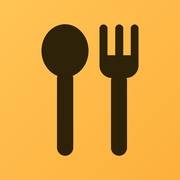
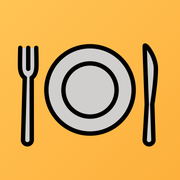
음식·앱 아이콘을 OpenMoji로 교체하고 출처(CC BY-SA 4.0)를 표기

diff --git a/icons.js b/icons.js
@@ -1,70 +1,11 @@
-// 결과 카드에 쓰는 음식 픽토그램 (viewBox 0 0 96 96)
-// 공통 스타일: 굵은 진한 외곽선 + 평평한 채색 + 한쪽 면 음영
-const INK = "#2b1d14";
-const g = (inner) => `<g stroke="${INK}" stroke-width="3.5" stroke-linejoin="round" stroke-linecap="round">${inner}</g>`;
-// 외곽선이 있는 굵은 선(면발, 뼈, 손잡이): 검정 선 위에 색 선을 덧그림
-const pipe = (d, w, color) =>
-  `<path d="${d}" fill="none" stroke-width="${w}"/><path d="${d}" fill="none" stroke="${color}" stroke-width="${w - 3.6}"/>`;
-const STEAM = `<g fill="none"><path d="M32 22c-4-4 4-7 0-12"/><path d="M48 20c-4-4 4-7 0-12"/><path d="M64 22c-4-4 4-7 0-12"/></g>`;
-const dots = (list) => `<g fill="${INK}" stroke="none">${list.map(([x, y]) => `<circle cx="${x}" cy="${y}" r="1.4"/>`).join("")}</g>`;
-const RICE_BUMPS = [[10, 46], [20.8, 54], [31.6, 62], [42.4, 70], [53.2, 78], [64, 86]]
-  .map(([x, y]) => `<circle cx="${x}" cy="${y}" r="5" fill="#faf5f0"/>`).join("");
-
-const ICONS = {
-  // 한식·기본: 김이 나는 밥
-  rice: g(`${STEAM}<path d="M14 52c0-12 8-20 18-20 3-7 13-9 19-4 4-4 13-3 16 5 9 2 15 10 15 19z" fill="#fff"/><path d="M8 52h80c0 20-16 34-40 34S8 72 8 52z" fill="#cfe3ff"/><path d="M71 55h14c-3 16-17 28-37 28 14-6 23-16 23-28z" fill="#a9c8f5" stroke="none"/><path d="M36 86h24v6H36z" fill="#a9c8f5"/>`),
-
-  // 면 요리: 젓가락으로 든 면발
-  noodle: g(`<path d="M20 34 82 10l3 7-62 24z" fill="#f28c38"/><path d="M16 44 82 24l3 7-66 22z" fill="#f28c38"/>${pipe("M34 40c-4 6 4 10 0 16s4 8 0 12", 7, "#fff")}${pipe("M46 38c-4 6 4 10 0 16s4 8 0 14", 7, "#fff")}${pipe("M58 36c-4 6 4 10 0 16s4 8 0 16", 7, "#fff")}${pipe("M70 34c-4 6 4 10 0 16s4 8 0 18", 7, "#fff")}<path d="M8 62h80c0 16-14 26-40 26S8 78 8 62z" fill="#86a8f0"/><path d="M72 65h13c-3 14-15 23-37 23 14-5 24-12 24-23z" fill="#6e91dd" stroke="none"/><path d="M36 88h24v5H36z" fill="#6e91dd"/>`),
-
-  // 라멘·일식
-  ramen: g(`<path d="M22 6h56v9H22z" fill="#e85d4c"/>${pipe("M38 15c-4 6 4 10 0 16s4 10 0 18", 7, "#ffb13b")}${pipe("M48 15c-4 6 4 10 0 16s4 10 0 18", 7, "#ffb13b")}${pipe("M58 15c-4 6 4 10 0 16s4 10 0 18", 7, "#ffb13b")}${pipe("M68 15c-4 6 4 10 0 16s4 10 0 18", 7, "#ffb13b")}<ellipse cx="22" cy="47" rx="14" ry="10" fill="#fff"/><circle cx="20" cy="49" r="5" fill="#ffa52b" stroke="none"/><path d="M66 52 76 34l16 8-4 10z" fill="#3f4c6b"/><path d="M6 52h84c0 20-16 34-42 34S6 72 6 52z" fill="#e85d4c"/><path d="M73 55h14c-3 17-16 28-39 28 15-6 25-16 25-28z" fill="#d24a3b" stroke="none"/><path d="M36 86h24v6H36z" fill="#e85d4c"/>`),
-
-  // 국·찌개·탕: 뚝배기
-  soup: g(`${STEAM}<path d="M2 52h8v8H2zM86 52h8v8h-8z" fill="#8a4a1a"/><path d="M10 46h76v22c0 12-10 20-22 20H32c-12 0-22-8-22-20z" fill="#a0592b"/><path d="M70 56h14v12c0 12-10 20-22 20 8-6 8-20 8-32z" fill="#8a4a1a" stroke="none"/><ellipse cx="48" cy="46" rx="38" ry="8" fill="#e85d4c"/><rect x="30" y="39" width="11" height="9" rx="2" fill="#fff"/><rect x="52" y="40" width="11" height="9" rx="2" fill="#fff"/>`),
-
-  // 초밥·스시: 연어 니기리
-  sushi: g(`${RICE_BUMPS}<path d="M10 30 70 86H64L10 46z" fill="#faf5f0" stroke="none"/><path d="M6 20C10 10 24 4 38 6c26 4 48 30 54 66 0 8-6 14-14 14l-8-2C52 70 28 52 12 32 8 28 5 24 6 20z" fill="#ff9b72"/><path d="M62 12c18 12 28 32 28 58 0 2-1 4-3 5C84 48 74 28 56 14z" fill="#ff8346" stroke="none"/><path d="M34 7c5 5 4 11-2 17M54 14c6 5 6 13-1 19M72 30c7 6 6 15-2 22M84 54c5 4 4 11-1 16" fill="none"/>`),
-
-  // 만두·중식
-  dumpling: g(`${STEAM}<path d="M8 70C8 44 26 30 48 30s40 14 40 40c0 6-4 10-10 10H18C12 80 8 76 8 70z" fill="#fff3de"/><path d="M68 40C80 48 84 58 84 70c0 5-3 8-8 8H62c10-10 12-26 6-38z" fill="#f2ddbe" stroke="none"/><path d="M28 44l4 10M40 38l2 12M54 38l-2 12M66 44l-4 10" fill="none"/>`),
-
-  // 피자
-  pizza: g(`<path d="M8 30C32 14 64 14 88 30l-6 10C60 28 36 28 14 40z" fill="#f6c46b"/><path d="M14 40C36 28 60 28 82 40L52 88z" fill="#ffe8c2"/><path d="M82 40 52 88l8-52z" fill="#fbd59e" stroke="none"/><circle cx="38" cy="52" r="7" fill="#f4747c"/><circle cx="62" cy="54" r="7" fill="#f4747c"/><circle cx="50" cy="72" r="6" fill="#f4747c"/>${dots([[36, 51], [40, 54], [60, 52], [64, 56], [49, 71]])}`),
-
-  // 햄버거
-  burger: g(`<path d="M12 42C12 24 28 14 48 14s36 10 36 28z" fill="#f5983a"/><path d="M70 20c9 5 14 12 14 22H64c5-6 7-14 6-22z" fill="#e8802a" stroke="none"/><path d="M35 27l2 3M48 23v4M61 27l-2 3" fill="none"/><rect x="8" y="44" width="80" height="12" rx="6" fill="#a0592b"/><path d="M8 62c4-3 8 3 12 0s8 3 12 0 8 3 12 0 8 3 12 0 8 3 12 0 6 2 8 0v8H8z" fill="#8ed35f"/><path d="M12 56h72v4H62v10c0 4-8 4-8 0V60H12z" fill="#ffd54a"/><path d="M12 72h72v6c0 8-6 12-14 12H26c-8 0-14-4-14-12z" fill="#f5983a"/><path d="M68 74h14v4c0 8-6 12-14 12 4-4 4-10 0-16z" fill="#e8802a" stroke="none"/>`),
-
-  // 치킨
-  chicken: g(`${pipe("M52 54 78 80", 13, "#fff")}<circle cx="82" cy="78" r="7" fill="#fff"/><circle cx="74" cy="86" r="7" fill="#fff"/><path d="M10 38C10 18 28 8 46 12c16 4 24 20 18 36-4 10-12 14-22 14S10 54 10 38z" fill="#f2893a"/><path d="M20 28c3-6 8-9 14-10" fill="none" stroke="#ffd9a0"/>`),
-
-  // 고기·구이·스테이크
-  meat: g(`<circle cx="48" cy="48" r="40" fill="#ddf1fb"/><path d="M22 30c-2-8 6-12 12-8 4-6 14-2 12 6 6 0 8 8 2 10H26c-4 0-6-4-4-8z" fill="#5fbf6a"/><circle cx="40" cy="34" r="4" fill="#f4747c"/><path d="M64 34h16v6H64zM60 42h16v6H60z" fill="#ffc14d"/><path d="M16 60c-4-14 8-24 24-22 14 2 20 8 34 8 8 0 10 8 4 14-10 14-30 20-48 14-8-3-12-8-14-14z" fill="#c96a30"/><path d="M30 48l14 18M42 44l16 20M54 44l14 16" fill="none" stroke="#8a4420"/>`),
-
-  // 카페·디저트
-  coffee: g(`<g fill="none"><path d="M36 28c-4-4 4-7 0-12"/><path d="M50 26c-4-4 4-7 0-12"/></g>${pipe("M66 46h6c8 0 12 5 12 11s-4 11-12 11h-6", 11, "#fff")}<ellipse cx="42" cy="90" rx="36" ry="5" fill="#dce6fa"/><path d="M16 40h50v22c0 14-10 24-25 24S16 76 16 62z" fill="#fff"/><path d="M52 43h12v19c0 13-9 23-23 24 8-8 11-24 11-43z" fill="#e6e8f2" stroke="none"/><ellipse cx="41" cy="40" rx="25" ry="6" fill="#8a5a2b"/>`),
-
-  // 샐러드
-  salad: g(`<path d="M14 54C8 38 20 24 32 28c4-10 20-12 28-4 12-2 22 8 18 20 4 4 4 8 2 10z" fill="#7ed957"/><path d="M24 52c-2-10 6-18 14-14 4-4 10-2 12 2" fill="none"/><path d="M50 50 70 34l8 8-16 16z" fill="#f4747c"/><circle cx="76" cy="46" r="6" fill="#ffd54a"/><path d="M8 54h80c0 20-14 30-40 30S8 74 8 54z" fill="#f2f2fc"/><path d="M74 57h13c-3 18-15 27-39 27 14-6 26-14 26-27z" fill="#dcdcee" stroke="none"/><path d="M34 84h28v6H34z" fill="#dcdcee"/>`),
-
-  // 멕시칸: 타코
-  taco: g(`<path d="M24 46c0-8 8-12 14-8 4-8 14-8 18-2 6-4 14 0 14 8 6 2 10 8 8 14H24z" fill="#8ed35f"/><circle cx="62" cy="34" r="7" fill="#e85d4c"/><path d="M8 82C8 52 26 36 48 36s40 16 40 46z" fill="#f6d89a"/><path d="M62 42C76 48 84 62 84 80H62C70 68 70 54 62 42z" fill="#efc670" stroke="none"/><path d="M28 66l4-4M42 56l4-4M40 72l4-4M56 64l4-4" fill="none"/>`),
-
-  // 돈까스·카츠
-  katsu: g(`<circle cx="48" cy="48" r="40" fill="#fbe6cc"/><g transform="rotate(-14 48 46)"><rect x="18" y="28" width="13" height="36" rx="6" fill="#f2793a"/><rect x="21" y="32" width="7" height="28" rx="3" fill="#ffe2b8" stroke="none"/><rect x="33" y="26" width="13" height="38" rx="6" fill="#f2793a"/><rect x="36" y="30" width="7" height="30" rx="3" fill="#ffe2b8" stroke="none"/><rect x="48" y="26" width="13" height="38" rx="6" fill="#f2793a"/><rect x="51" y="30" width="7" height="30" rx="3" fill="#ffe2b8" stroke="none"/><rect x="63" y="28" width="13" height="36" rx="6" fill="#f2793a"/><rect x="66" y="32" width="7" height="28" rx="3" fill="#ffe2b8" stroke="none"/></g><circle cx="38" cy="74" r="8" fill="#fff"/><circle cx="38" cy="74" r="4.2" fill="#8a3f20" stroke="none"/><circle cx="58" cy="74" r="8" fill="#fff"/><circle cx="58" cy="74" r="4.2" fill="#e8473a" stroke="none"/>`),
-
-  // 파스타·양식
-  pasta: g(`<ellipse cx="48" cy="84" rx="42" ry="8" fill="#dce6fa"/>${pipe("M40 18c-4 8 4 12 0 20s4 12 0 20", 8, "#ffc14d")}${pipe("M50 16c-4 8 4 12 0 20s4 12 0 22", 8, "#ffc14d")}${pipe("M60 18c-4 8 4 12 0 20s4 12 0 20", 8, "#ffc14d")}<path d="M12 82C10 64 24 54 48 54s38 10 36 28z" fill="#ffc14d"/><path d="M22 80c0-9 6-14 12-14s12 5 12 14M44 80c0-9 6-14 12-14s12 5 12 14M60 62c6 2 10 6 12 12" fill="none"/><path d="M30 8 76 14l-1 8-46-6z" fill="#4a4f57"/>`),
-
-  // 함박·경양식
-  hamburg: g(`<circle cx="48" cy="48" r="40" fill="#d3e1ea"/><path d="M54 24c20 2 30 14 28 30-2 16-14 22-28 22 10-10 12-30 0-52z" fill="#ffd54a"/><path d="M60 38c8 4 10 12 6 20M66 32c10 8 12 22 4 34" fill="none"/><path d="M14 50c-2-14 8-26 22-26 12 0 18 8 18 20 0 16-10 28-24 28S16 66 14 50z" fill="#7a4a22"/><path d="M28 40l8 4M30 46l8 4M26 58l10-4" fill="none" stroke="#c9a06b"/>`),
-};
+// 결과 카드에 쓰는 음식 아이콘 (icons/*.svg, OpenMoji · CC BY-SA 4.0)
+const ICON_NAMES = ["rice", "noodle", "soup", "sushi", "dumpling", "pizza", "burger", "chicken", "meat", "coffee", "salad", "taco", "katsu", "pasta"];
 
 // 위에 있을수록 우선. 카테고리가 여러 개면 가장 위 규칙에 걸린 아이콘을 씁니다.
 const ICON_RULES = [
-  ["ramen", ["라멘"]],
+  ["noodle", ["라멘"]],
   ["pasta", ["파스타", "스파게티"]],
-  ["hamburg", ["함박", "경양식"]],
+  ["meat", ["함박", "경양식"]],
   ["noodle", ["면", "국수", "라면", "우동", "냉면", "짬뽕", "짜장", "소바", "아시안", "베트남", "태국", "팟타이"]],
   ["dumpling", ["만두", "딤섬", "중식", "중국", "마라", "탕수육"]],
   ["soup", ["국밥", "찌개", "탕", "전골", "해장", "국물", "순대국", "순댓국"]],
@@ -78,11 +19,16 @@ const ICON_RULES = [
   ["coffee", ["카페", "커피", "디저트", "빵", "베이커리", "브런치"]],
   ["salad", ["샐러드", "비건", "샌드위치"]],
   ["pasta", ["양식"]],
-  ["ramen", ["일식"]],
+  ["noodle", ["일식"]],
 ];
+
+const iconPath = (name) => `icons/${name}.svg`;
 
 function iconFor(categories) {
   const rule = ICON_RULES.find(([, words]) =>
     categories.some((c) => words.some((w) => c.includes(w))));
-  return ICONS[rule ? rule[0] : "rice"];
+  return iconPath(rule ? rule[0] : "rice");
 }
+
+// 뽑는 동안 아이콘이 바뀔 때 깜빡이지 않도록 미리 불러 둡니다.
+for (const name of ICON_NAMES) new Image().src = iconPath(name);

diff --git a/style.css b/style.css
@@ -87,20 +87,21 @@ button { cursor: pointer; border: 0; }
   box-shadow: 0 0.875rem 1.875rem -0.75rem rgba(253, 160, 40, .6), inset 0 1px 0 rgba(255, 255, 255, .6);
 }
 .hero-name {
-  padding-right: 4rem;
+  padding-right: 5rem;
   font-size: 1.75rem;
   font-weight: 800;
   line-height: 1.2;
   letter-spacing: -0.04em;
   word-break: keep-all;
 }
-.hero-meta { margin-top: 0.25rem; padding-right: 4rem; color: var(--hero-muted); font-size: .85rem; font-weight: 500; }
+.hero-meta { margin-top: 0.25rem; padding-right: 5rem; color: var(--hero-muted); font-size: .85rem; font-weight: 500; }
 .hero-art {
   position: absolute;
-  right: 0.875rem;
-  bottom: 0.75rem;
-  width: 3.75rem;
-  height: 3.75rem;
+  right: 0.5rem;
+  bottom: 0.375rem;
+  width: 5.25rem;
+  height: 5.25rem;
+  object-fit: contain;
   filter: drop-shadow(0 0.375rem 0.5rem rgba(120, 70, 0, .22));
   pointer-events: none;
 }
@@ -232,3 +233,6 @@ input:invalid:not(:placeholder-shown):not(:focus) { border-color: var(--danger);
 @media (prefers-reduced-motion: reduce) {
   *, ::before, ::after { animation: none !important; transition: none !important; }
 }
+
+.credit { margin: 2rem 0 0; text-align: center; color: var(--placeholder); font-size: .72rem; }
+.credit a { color: inherit; }

diff --git a/app.js b/app.js
@@ -173,7 +173,7 @@ function render() {
 function show(r) {
   picked = true;
   lastPickedId = r.id;
-  art.innerHTML = iconFor(r.categories);
+  art.src = iconFor(r.categories);
   pickBtn.textContent = "다시 뽑기";
   resultEl.textContent = r.name;
   metaEl.textContent = r.categories.join(", ");
@@ -197,7 +197,7 @@ pickBtn.onclick = () => {
     const r = pool[Math.floor(Math.random() * pool.length)];
     resultEl.textContent = r.name;
     metaEl.textContent = r.categories.join(", ");
-    art.innerHTML = iconFor(r.categories);
+    art.src = iconFor(r.categories);
     if (++ticks >= 12) {
       clearInterval(timer);
       hero.classList.remove("rolling");
@@ -281,6 +281,5 @@ document.addEventListener("visibilitychange", () => {
   if (document.visibilityState === "visible") refresh();
 });
 
-art.innerHTML = ICONS.rice;
 render();
 refresh();

diff --git a/index.html b/index.html
@@ -21,7 +21,7 @@
     <section class="hero" aria-live="polite">
       <div id="result" class="hero-name"></div>
       <div id="result-meta" class="hero-meta"></div>
-      <svg class="hero-art" viewBox="0 0 96 96" aria-hidden="true"></svg>
+      <img class="hero-art" src="icons/rice.svg" alt="" width="96" height="96">
       <a id="result-link" class="hero-link" hidden target="_blank" rel="noopener noreferrer">지도 열기</a>
     </section>
     <button id="pick" type="button">점심 뽑기</button>
@@ -43,6 +43,7 @@
       <ul id="list" class="list"></ul>
       <p id="empty" class="empty" hidden>아직 식당이 없어요. 자주 가는 곳부터 추가해 보세요.</p>
     </section>
+    <p class="credit">아이콘 <a href="https://openmoji.org" target="_blank" rel="noopener noreferrer">OpenMoji</a> (CC BY-SA 4.0)</p>
   </main>
 
 

diff --git a/icons/README.md b/icons/README.md
@@ -1,0 +1,26 @@
+# 아이콘 출처
+
+이 폴더의 SVG 아이콘은 [OpenMoji](https://openmoji.org) 프로젝트의 디자인입니다.
+
+- 저작자: OpenMoji contributors (https://openmoji.org/)
+- 라이선스: [CC BY-SA 4.0](https://creativecommons.org/licenses/by-sa/4.0/)
+- 원본: npm 패키지 `openmoji@15.1.0`의 `color/svg` (파일 이름만 용도에 맞게 바꿨습니다)
+
+| 파일 | 원본 코드포인트 |
+|---|---|
+| rice.svg | 1F35A |
+| noodle.svg | 1F35C |
+| soup.svg | 1F372 |
+| sushi.svg | 1F363 |
+| dumpling.svg | 1F95F |
+| pizza.svg | 1F355 |
+| burger.svg | 1F354 |
+| chicken.svg | 1F357 |
+| meat.svg | 1F969 |
+| coffee.svg | 2615 |
+| salad.svg | 1F957 |
+| taco.svg | 1F32E |
+| katsu.svg | 1F35B |
+| pasta.svg | 1F35D |
+
+앱 아이콘(`favicon.svg`, `favicon-32.png`, `apple-touch-icon.png`)에는 OpenMoji의 `1F37D`(접시와 포크·나이프)를 사용했습니다.
